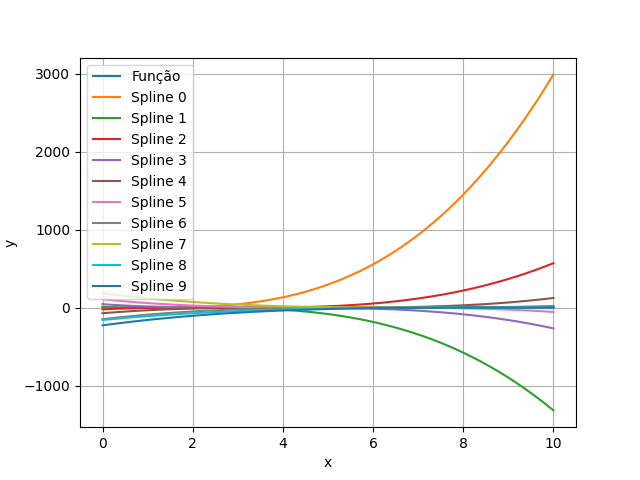
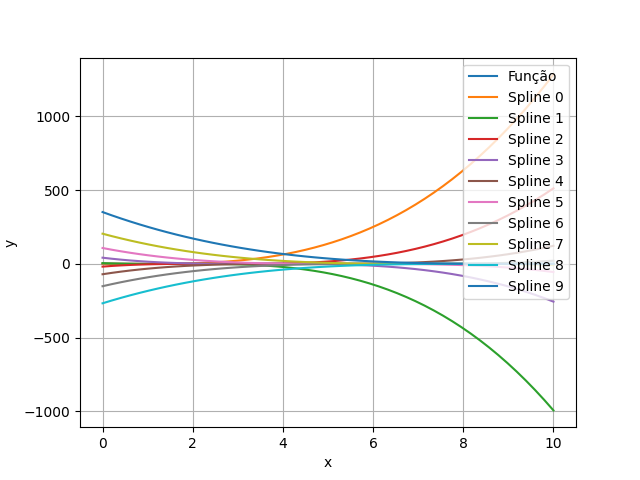
CubicSplines done

diff --git a/Polynomial_Interpolation/splines.py b/Polynomial_Interpolation/splines.py
@@ -122,7 +122,7 @@ list_deriv.append(deriv1)
 
 x2 = np.array([0, 1, 2, 3, 4, 5, 6, 7, 8, 9, 10])
 y2 = np.array([2, 0, 0.6667, 0, 0.4, 0, 0.2857, 0, 0.2222, 0, 0.1818])
-function2 = (1 + sp.cos(sp.pi * var_x)) / 1 + var_x
+function2 = (1 + sp.cos(sp.pi * var_x)) / (1 + var_x)
 deriv2 = sp.diff(function2, var_x)
 
 list_x.append(x2)
